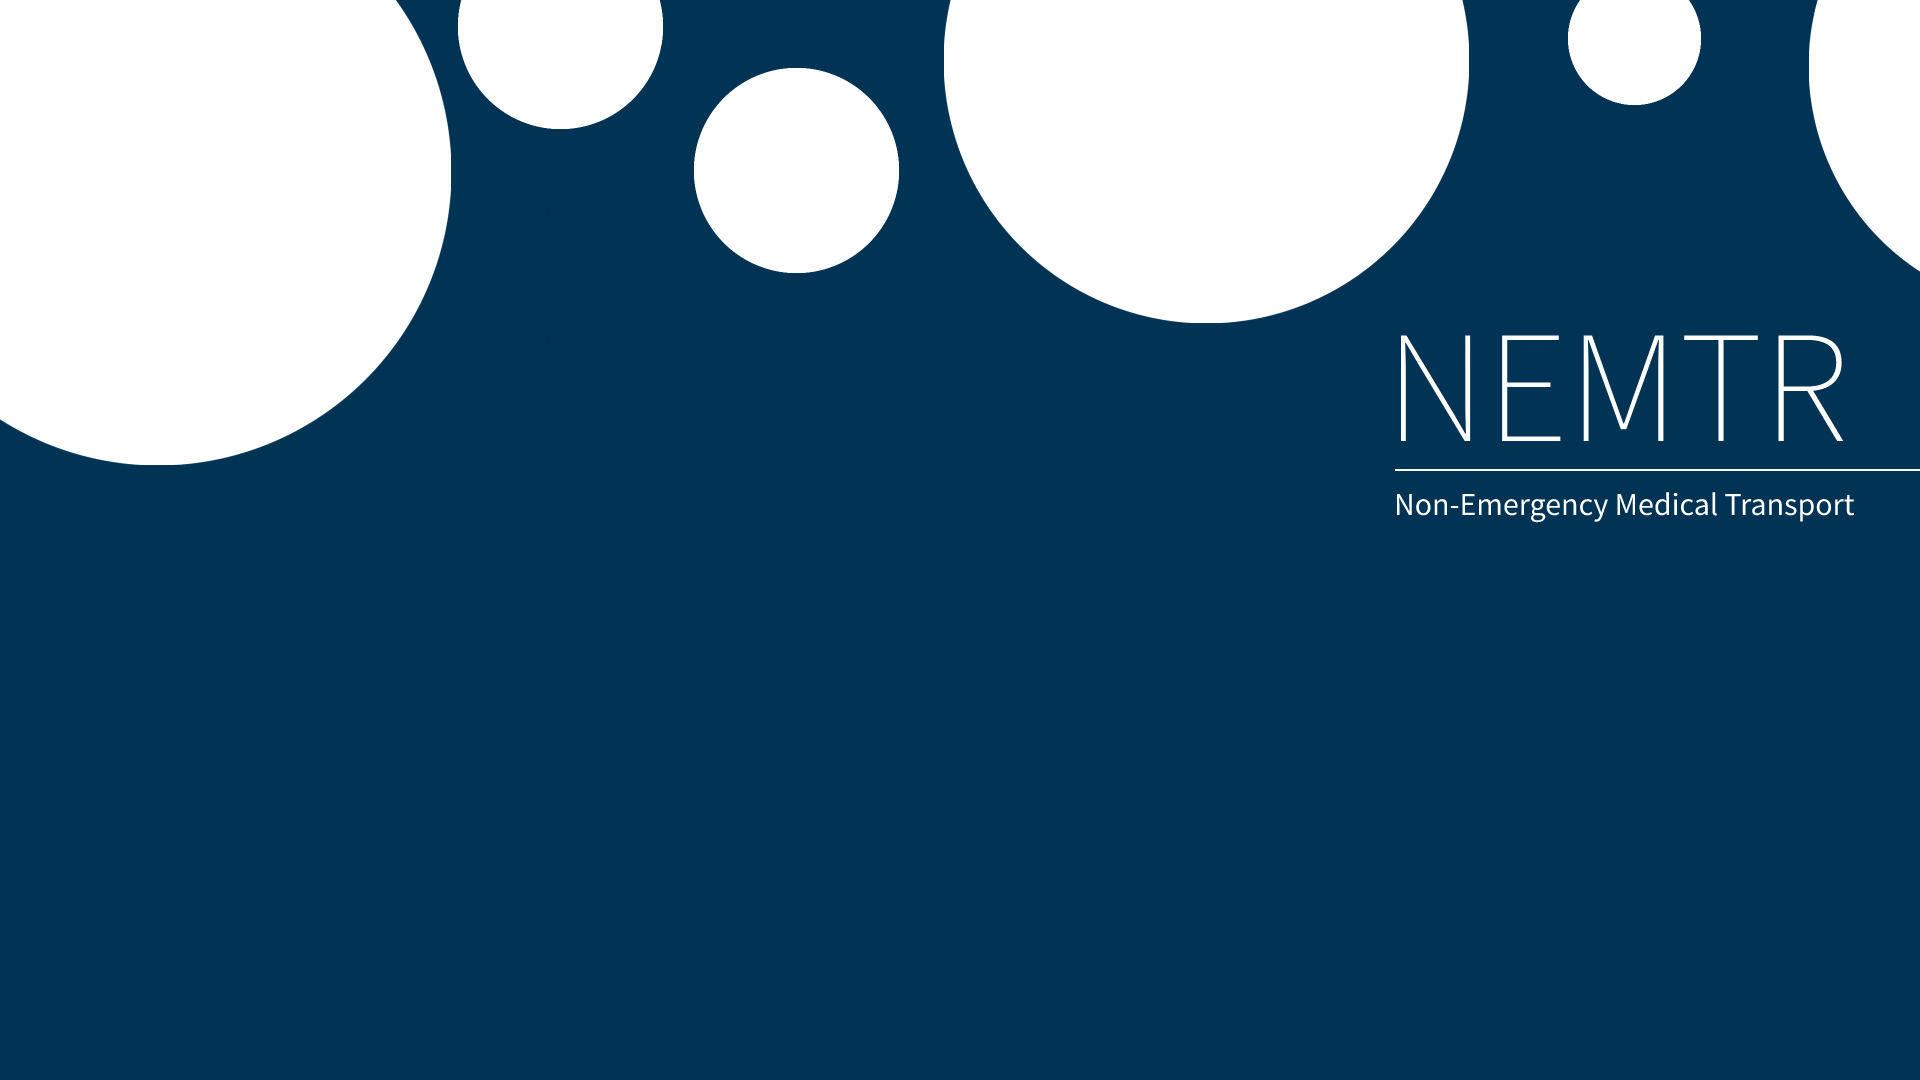
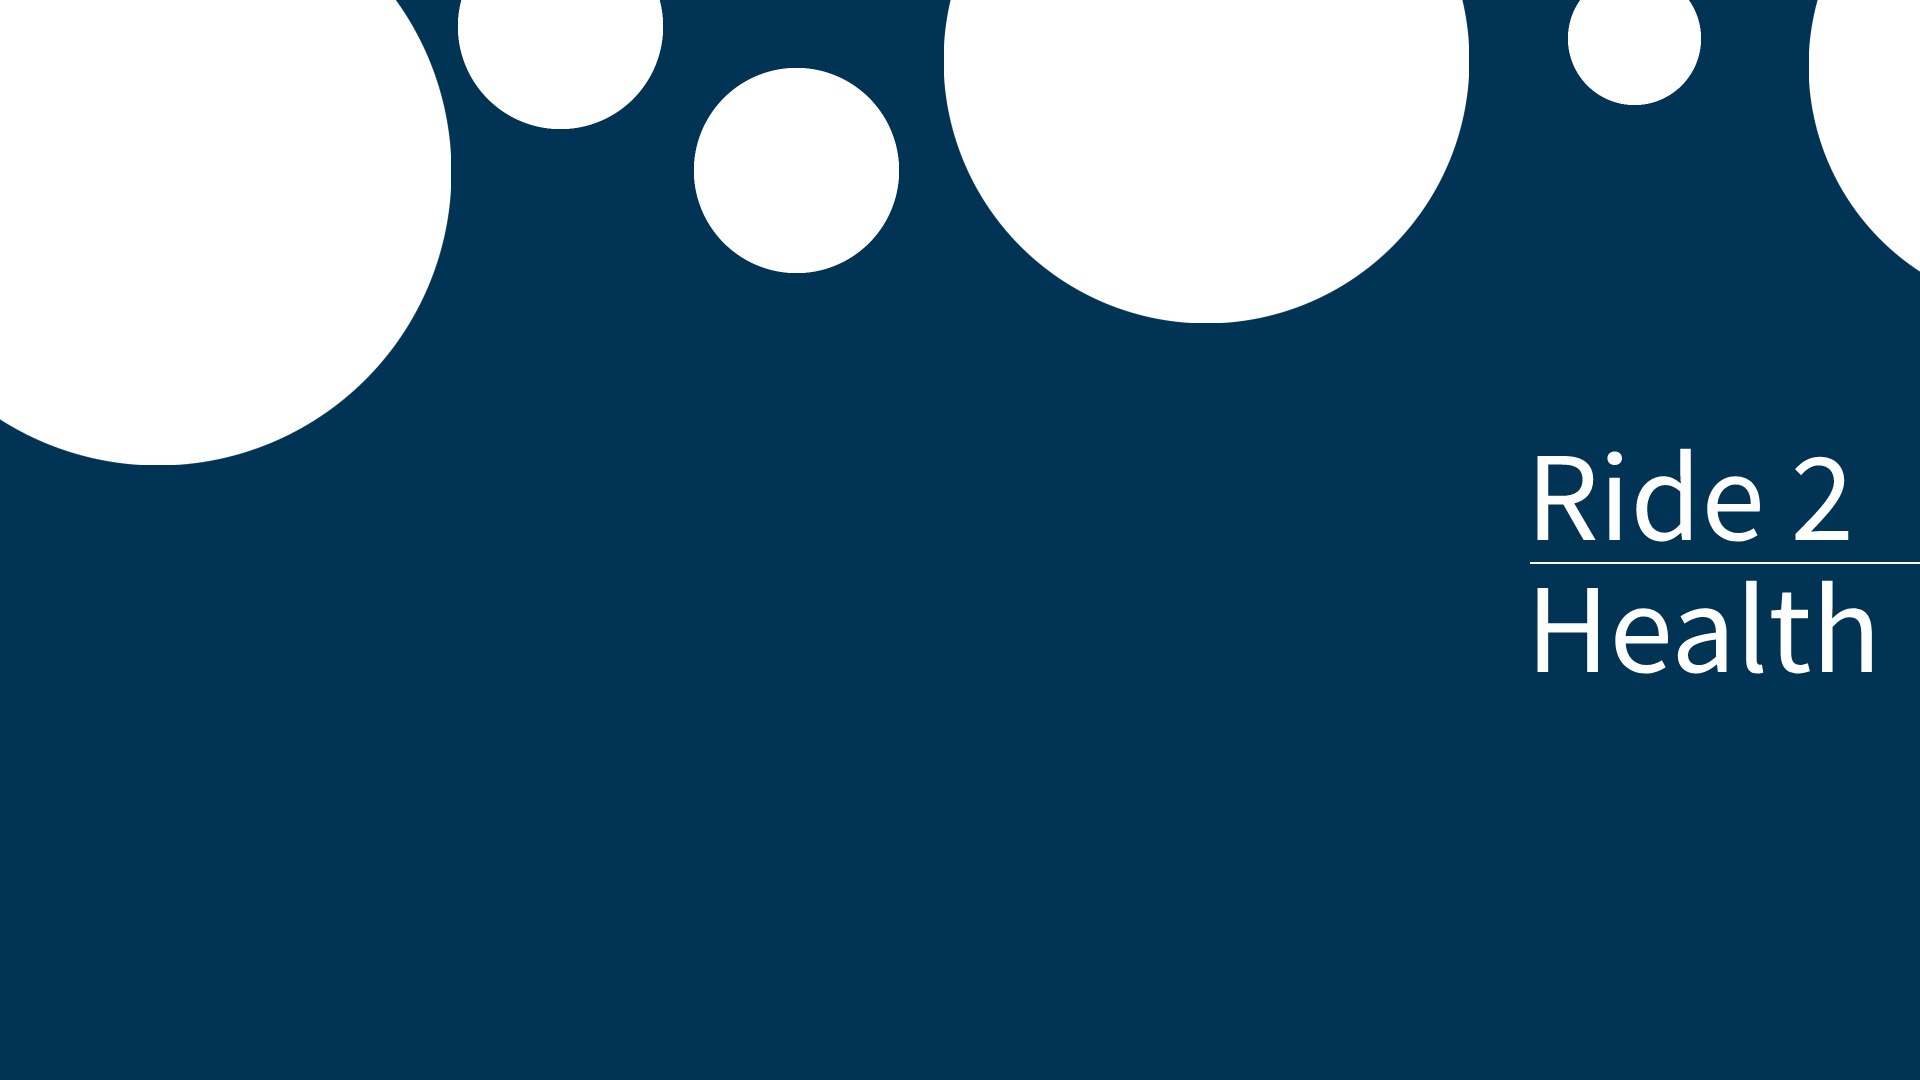
Changed the homepage name to Ride 2 Health.

Changed region(s): [[0.7188, 0.3056, 1.0, 0.6417]]

diff --git a/app/assets/stylesheets/application.scss b/app/assets/stylesheets/application.scss
@@ -46,9 +46,9 @@ label{
 p.flash-notice{
   position: absolute;
   top: 0;
-  right: 50%;
   margin: auto;
   text-align: center;
+  width: 100%;
   color: red;
   padding: 5px 5px 5px 5px;
 }

diff --git a/config/application.rb b/config/application.rb
@@ -23,6 +23,8 @@ module NEMTR
     # Initialize configuration defaults for originally generated Rails version.
     config.load_defaults 5.2
     config.autoload_paths << Rails.root.join('lib')
+
+    config.time_zone = 'Central Time (US & Canada)'
     # Settings in config/environments/* take precedence over those specified here.
     # Application configuration can go into files in config/initializers
     # -- all .rb files in that directory are automatically loaded after loading

diff --git a/app/controllers/application_controller.rb b/app/controllers/application_controller.rb
@@ -60,7 +60,7 @@ class ApplicationController < ActionController::Base
        _monday
     end
 
-    # ===================== MATCHING ENGINE STUFF ============================ #
+    # ===================== MATCHING ALGORITHM STUFF ============================ #
     def check_appt_update(appt)
       if appt.status == 0
         log = matching_alg
